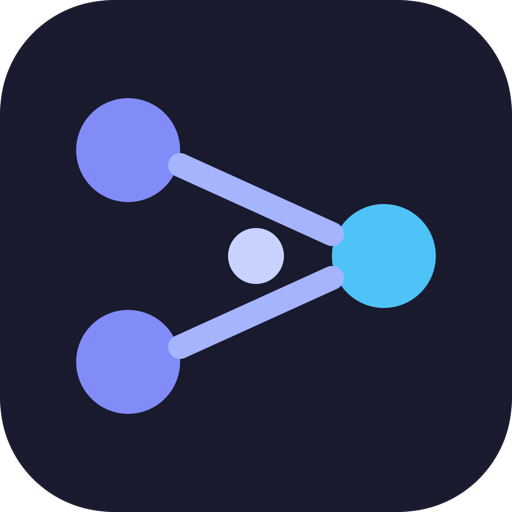
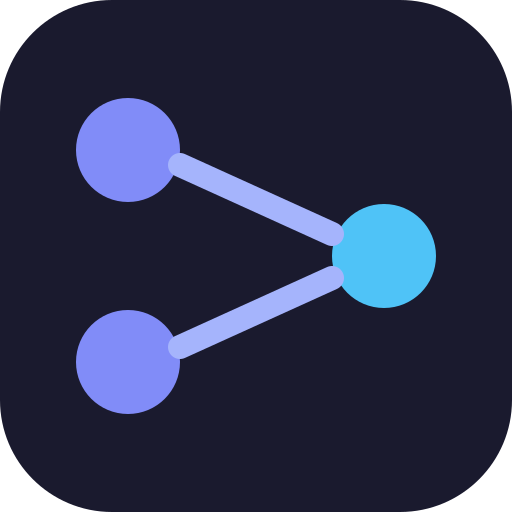
fix: macOS 控制台 UI 多项问题修复 (#127)
- 修复多次点击打开多个控制台窗口的问题，复用已有窗口
- 控制台打开时显示 Dock 图标，关闭时隐藏
- Dock 右键退出只关闭控制台，不退出菜单栏应用
- 菜单栏 Open Admin UI 改为 Open Web UI
- 修复适配器表单左侧对齐问题
- 移除适配器列表多余的刷新按钮
- 修改端口和语言菜单图标避免与 Web UI 图标重复
- 移除 app icon 中间多余的灰色圆圈

Changed region(s): [[0.4375, 0.4375, 0.5625, 0.5625]]

diff --git a/app/Sources/ConsoleWindowController.swift b/app/Sources/ConsoleWindowController.swift
@@ -25,8 +25,30 @@ class ConsoleWindowController: NSWindowController {
     func show() {
         guard let window = window else { return }
         setupMainMenu()
+        // 显示 Dock 图标
+        NSApp.setActivationPolicy(.regular)
         window.makeKeyAndOrderFront(nil)
         NSApp.activate(ignoringOtherApps: true)
+
+        // 窗口关闭时隐藏 Dock 图标
+        NotificationCenter.default.addObserver(
+            forName: NSWindow.willCloseNotification,
+            object: window,
+            queue: .main
+        ) { [weak self] _ in
+            // willClose 时窗口尚未隐藏，延迟到下一个 runloop 再检查
+            DispatchQueue.main.async {
+                self?.windowDidClose()
+            }
+        }
+    }
+
+    private func windowDidClose() {
+        // 所有窗口关闭后恢复为 accessory（仅菜单栏）
+        let visibleWindows = NSApp.windows.filter { $0.isVisible && !$0.className.contains("StatusBar") }
+        if visibleWindows.isEmpty {
+            NSApp.setActivationPolicy(.accessory)
+        }
     }
 
     // MARK: - Main Menu

diff --git a/app/Sources/AppDelegate.swift b/app/Sources/AppDelegate.swift
@@ -3,6 +3,25 @@ import AppKit
 class AppDelegate: NSObject, NSApplicationDelegate {
     var statusItem: NSStatusItem!
     var menuBarController: MenuBarController!
+    /// 标记是否从菜单栏触发的真正退出
+    var shouldReallyQuit = false
+
+    func applicationShouldTerminateAfterLastWindowClosed(_ sender: NSApplication) -> Bool {
+        return false
+    }
+
+    func applicationShouldTerminate(_ sender: NSApplication) -> NSApplication.TerminateReply {
+        // 从菜单栏“退出”触发的才真正退出
+        if shouldReallyQuit {
+            return .terminateNow
+        }
+        // 否则（Dock 右键退出 / Cmd+Q）：关闭控制台窗口，隐藏 Dock 图标
+        for window in NSApp.windows where window.isVisible && !window.className.contains("StatusBar") {
+            window.close()
+        }
+        NSApp.setActivationPolicy(.accessory)
+        return .terminateCancel
+    }
 
     func applicationDidFinishLaunching(_ notification: Notification) {
         NSApp.setActivationPolicy(.accessory)

diff --git a/app/Sources/MenuBarController.swift b/app/Sources/MenuBarController.swift
@@ -237,7 +237,7 @@ class MenuBarController: NSObject {
         // 端口设置（子菜单）
         let portItem = NSMenuItem(title: loc("action.port", String(currentPort)), action: nil, keyEquivalent: "")
         if #available(macOS 11.0, *) {
-            portItem.image = NSImage(systemSymbolName: "network", accessibilityDescription: loc("action.port", String(currentPort)))
+            portItem.image = NSImage(systemSymbolName: "number", accessibilityDescription: loc("action.port", String(currentPort)))
         }
         let portMenu = NSMenu()
         // 常用端口快捷选项
@@ -275,7 +275,7 @@ class MenuBarController: NSObject {
         let langLabel = currentLang == "zh" ? "中文" : "English"
         let langItem = NSMenuItem(title: loc("action.language", langLabel), action: nil, keyEquivalent: "")
         if #available(macOS 11.0, *) {
-            langItem.image = NSImage(systemSymbolName: "globe", accessibilityDescription: loc("action.language", langLabel))
+            langItem.image = NSImage(systemSymbolName: "character.book.closed", accessibilityDescription: loc("action.language", langLabel))
         }
         let langMenu = NSMenu()
         for (langCode, langName) in [("zh", "中文"), ("en", "English")] {
@@ -396,6 +396,11 @@ class MenuBarController: NSObject {
     }
 
     @MainActor @objc func openConsole() {
+        if let existing = consoleWindowController, existing.window?.isVisible == true {
+            existing.window?.makeKeyAndOrderFront(nil)
+            NSApp.activate(ignoringOtherApps: true)
+            return
+        }
         let controller = ConsoleWindowController()
         consoleWindowController = controller
         controller.show()
@@ -713,6 +718,7 @@ class MenuBarController: NSObject {
 
     @objc func quitApp() {
         stopSync()
+        (NSApp.delegate as? AppDelegate)?.shouldReallyQuit = true
         NSApplication.shared.terminate(nil)
     }
 

diff --git a/app/Sources/Views/AdaptersView.swift b/app/Sources/Views/AdaptersView.swift
@@ -35,11 +35,7 @@ struct AdaptersView: View {
                 .buttonStyle(.borderedProminent)
                 .controlSize(.regular)
 
-                Button(action: { Task { await viewModel.load() } }) {
-                    Image(systemName: "arrow.clockwise")
-                }
-                .buttonStyle(.borderless)
-                .disabled(viewModel.isLoading)
+
             }
             .padding(.horizontal, 20)
             .padding(.vertical, 12)

diff --git a/app/Sources/Views/AdapterFormView.swift b/app/Sources/Views/AdapterFormView.swift
@@ -40,6 +40,7 @@ struct AdapterFormView: View {
                                 Text(type.1).tag(type.0)
                             }
                         }
+                        .labelsHidden()
                         .pickerStyle(.segmented)
                     }
 
@@ -65,7 +66,7 @@ struct AdapterFormView: View {
                             }
                             .pickerStyle(.menu)
                             .labelsHidden()
-                            .frame(maxWidth: 180)
+                            .fixedSize()
 
                             Button(action: { vm.bulkImportModels() }) {
                                 Text(loc("adapter.importFromProvider"))
@@ -185,7 +186,7 @@ struct AdapterFormView: View {
             .buttonStyle(.plain)
             .padding(.top, 16)
         }
-        .padding(8)
+        .padding(.vertical, 8)
         .background(Color(nsColor: .controlBackgroundColor).opacity(0.5))
         .cornerRadius(6)
     }